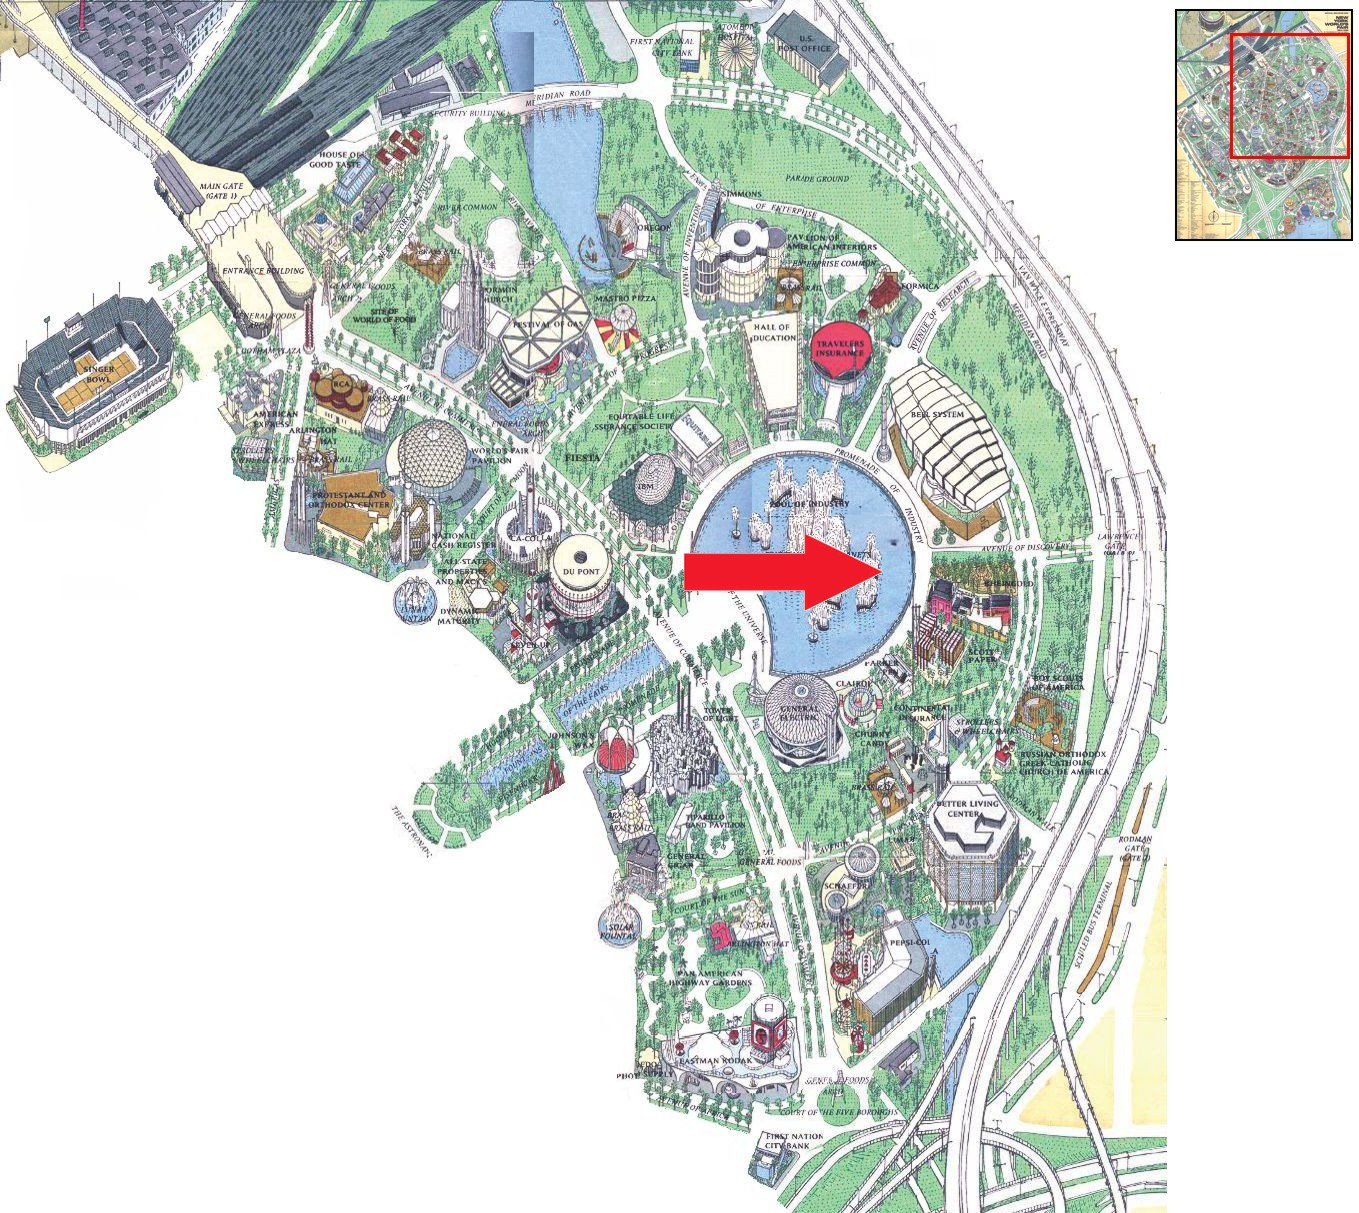
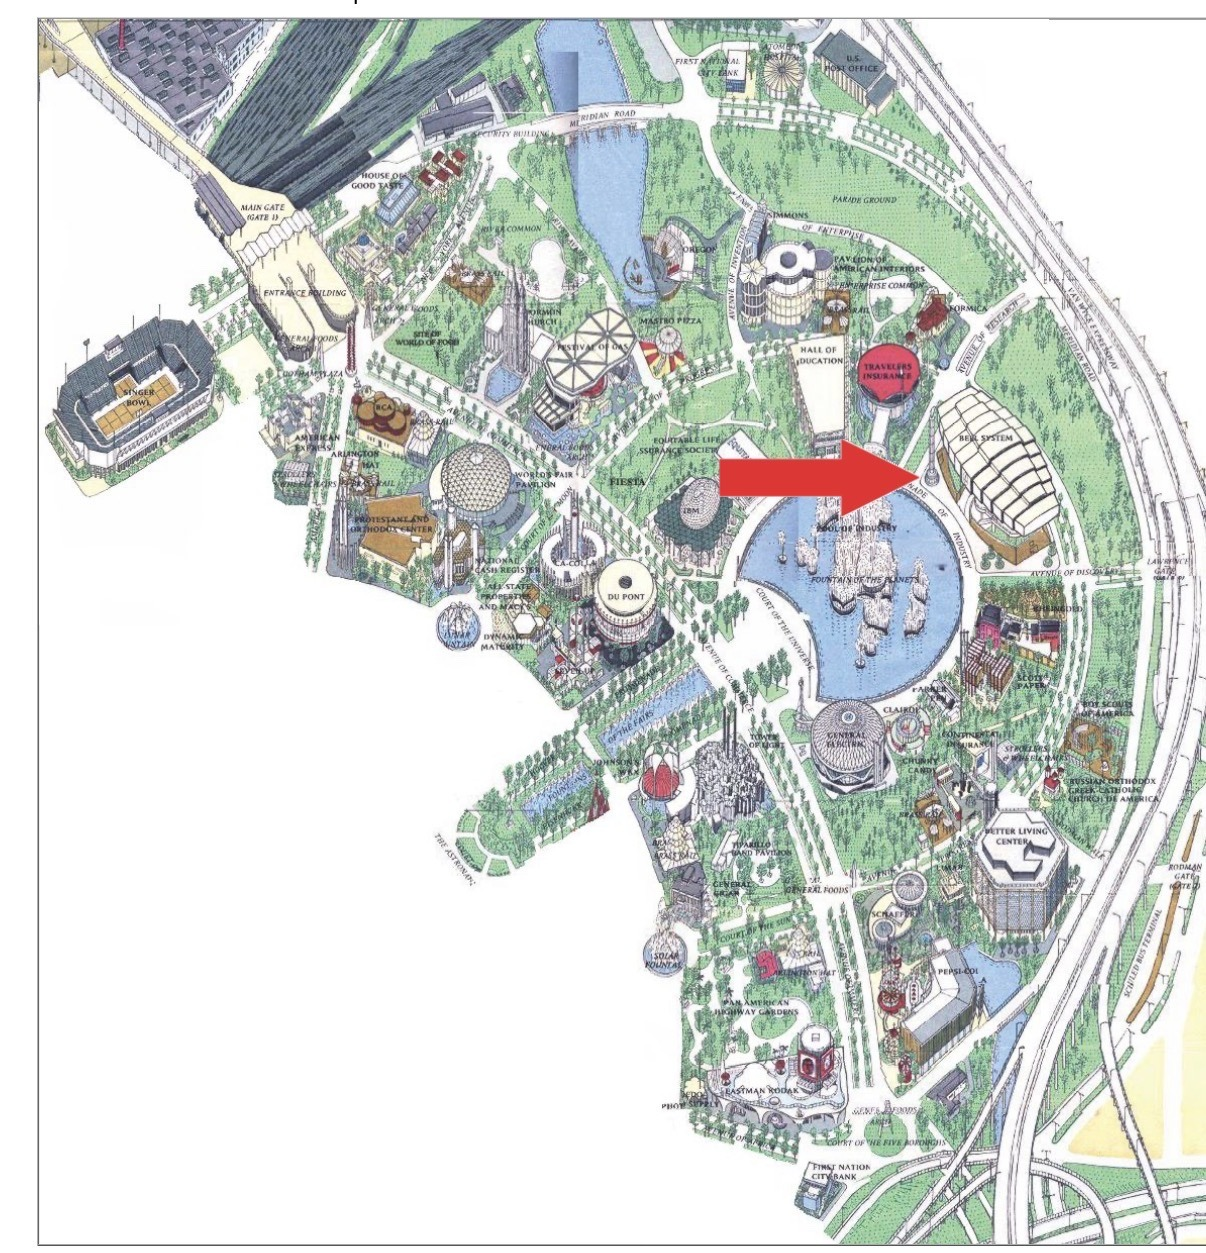
Fix bellmap arrow position and Previous/Next footer links

diff --git a/src/app/bellmap/page.tsx b/src/app/bellmap/page.tsx
@@ -59,8 +59,8 @@ export default function BellMapPage() {
             <Image
               src="/images/bellmap/locate-map.jpg"
               alt="Bell System Pavilion location on the Industrial Area of the 1964 Official Souvenir Map, with a red arrow pointing to Bell System"
-              width={1359}
-              height={1213}
+              width={1206}
+              height={1253}
               sizes="100vw"
               className={styles.mapArt}
               unoptimized
@@ -72,7 +72,7 @@ export default function BellMapPage() {
       <Nav2Bar
         previousHref="/bell01"
         overviewHref="/belloverview"
-        nextHref="/bell01"
+        nextHref="/bell02"
       />
     </>
   );

diff --git a/src/app/bellmap/bellmap.module.css b/src/app/bellmap/bellmap.module.css
@@ -17,7 +17,7 @@
 
 .articleInner {
   width: 100%;
-  max-width: 1359px;
+  max-width: 1206px;
   margin: 0;
   padding: 0.75rem clamp(0.75rem, 2vw, 1.25rem) 0;
   box-sizing: border-box;
@@ -75,7 +75,7 @@
 
 .mapWrap {
   width: 100%;
-  max-width: 1359px;
+  max-width: 1206px;
   margin: 0;
   line-height: 0;
   text-align: left;
@@ -87,7 +87,7 @@
 .mapArt {
   display: block;
   width: 100%;
-  max-width: 1359px;
+  max-width: 1206px;
   height: auto;
   margin: 0;
 }
